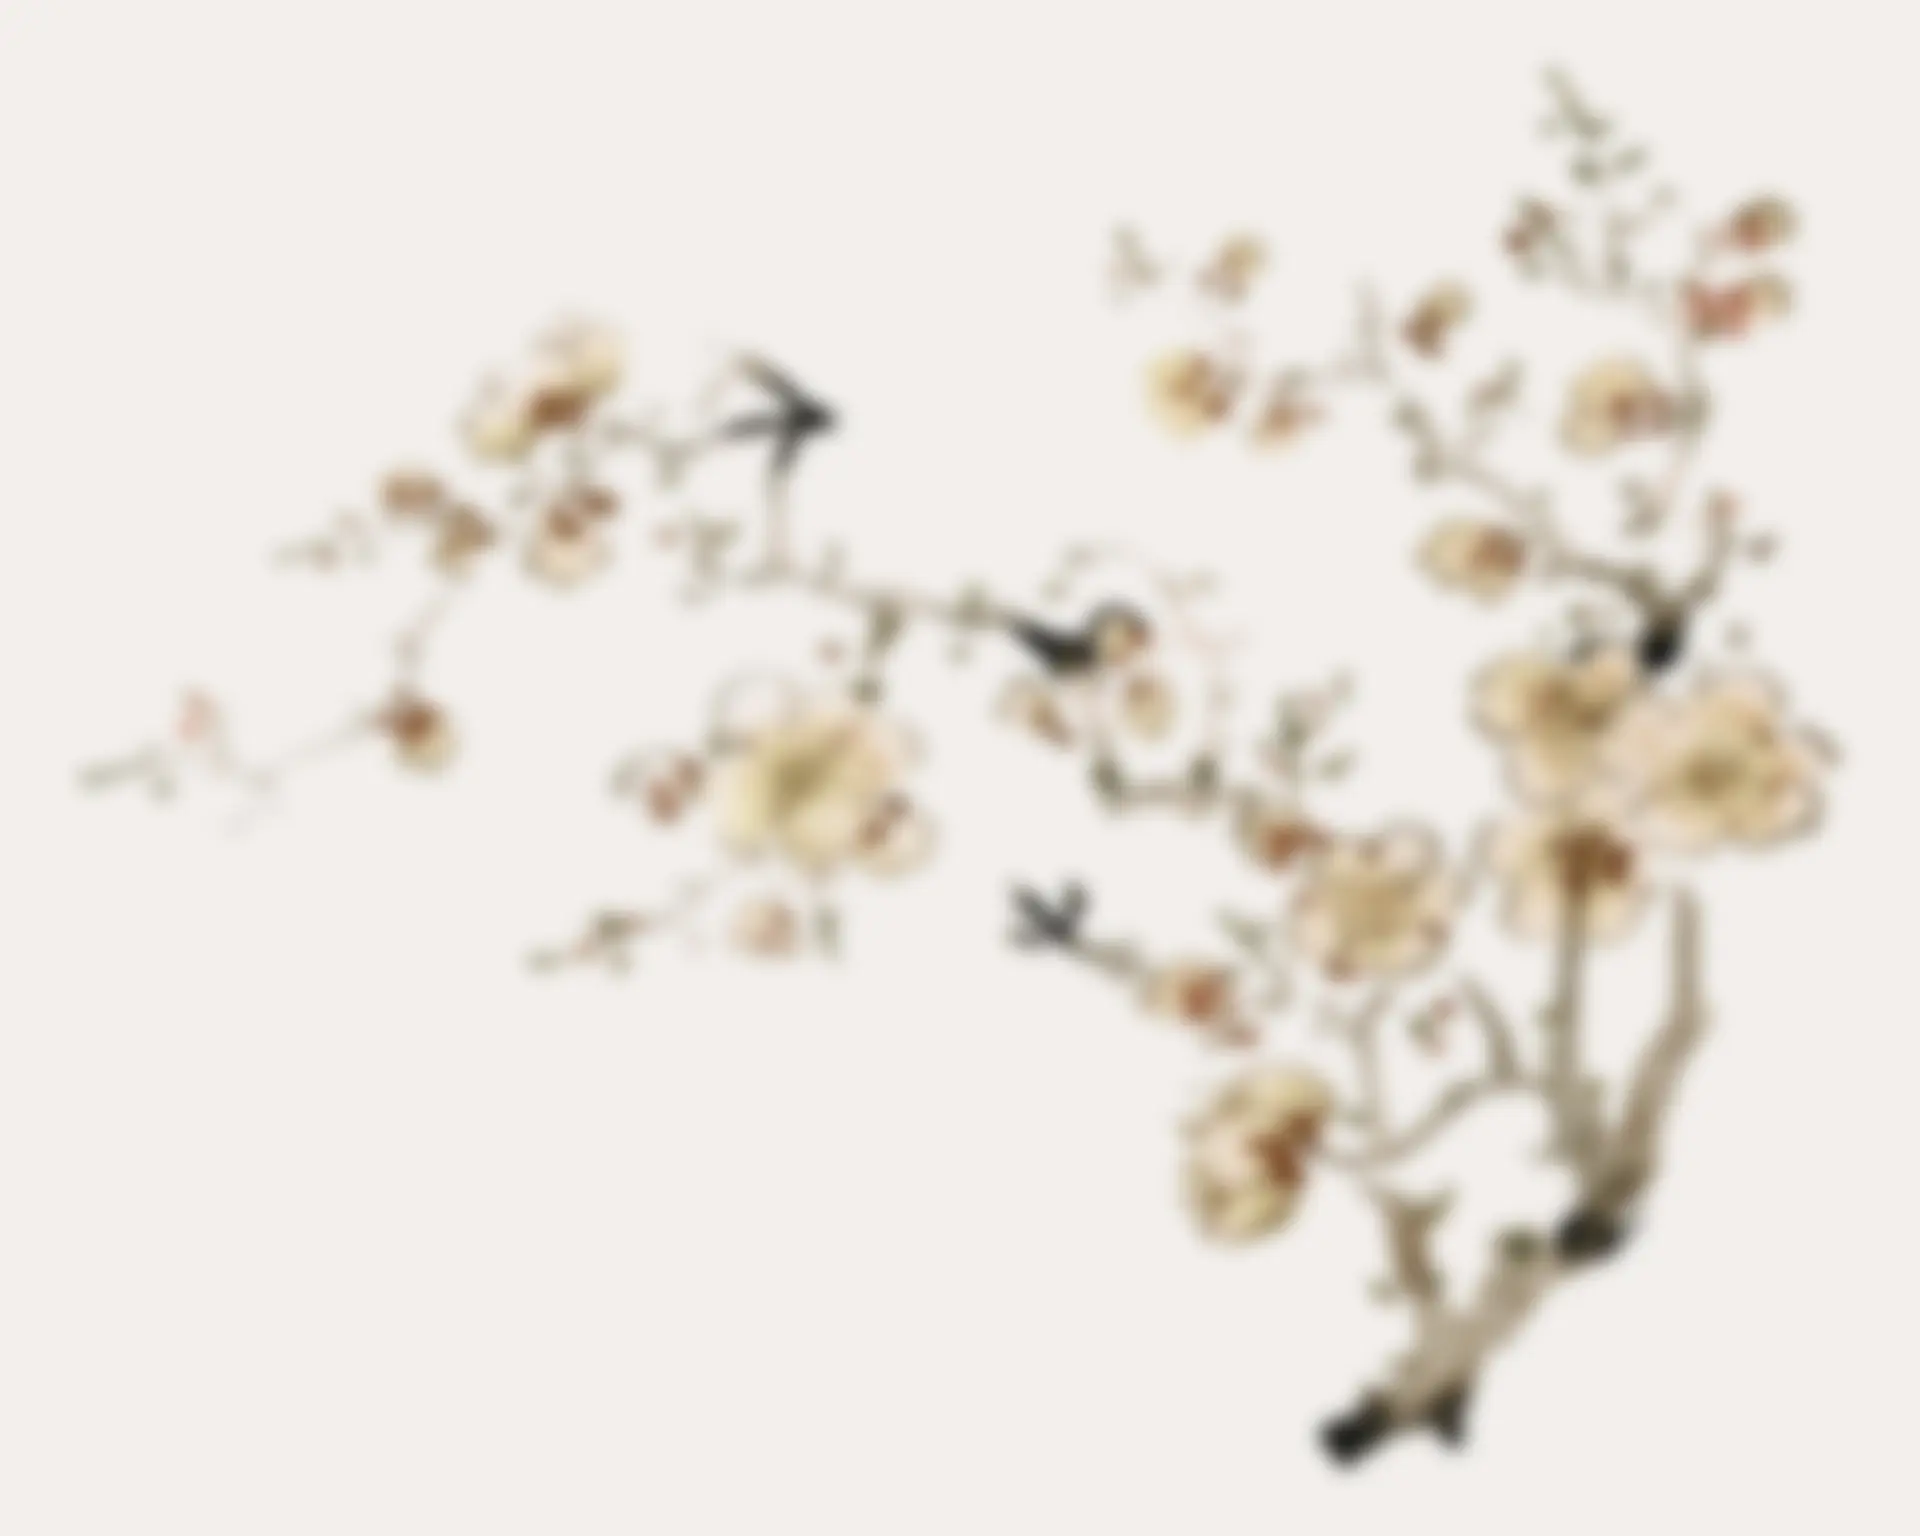
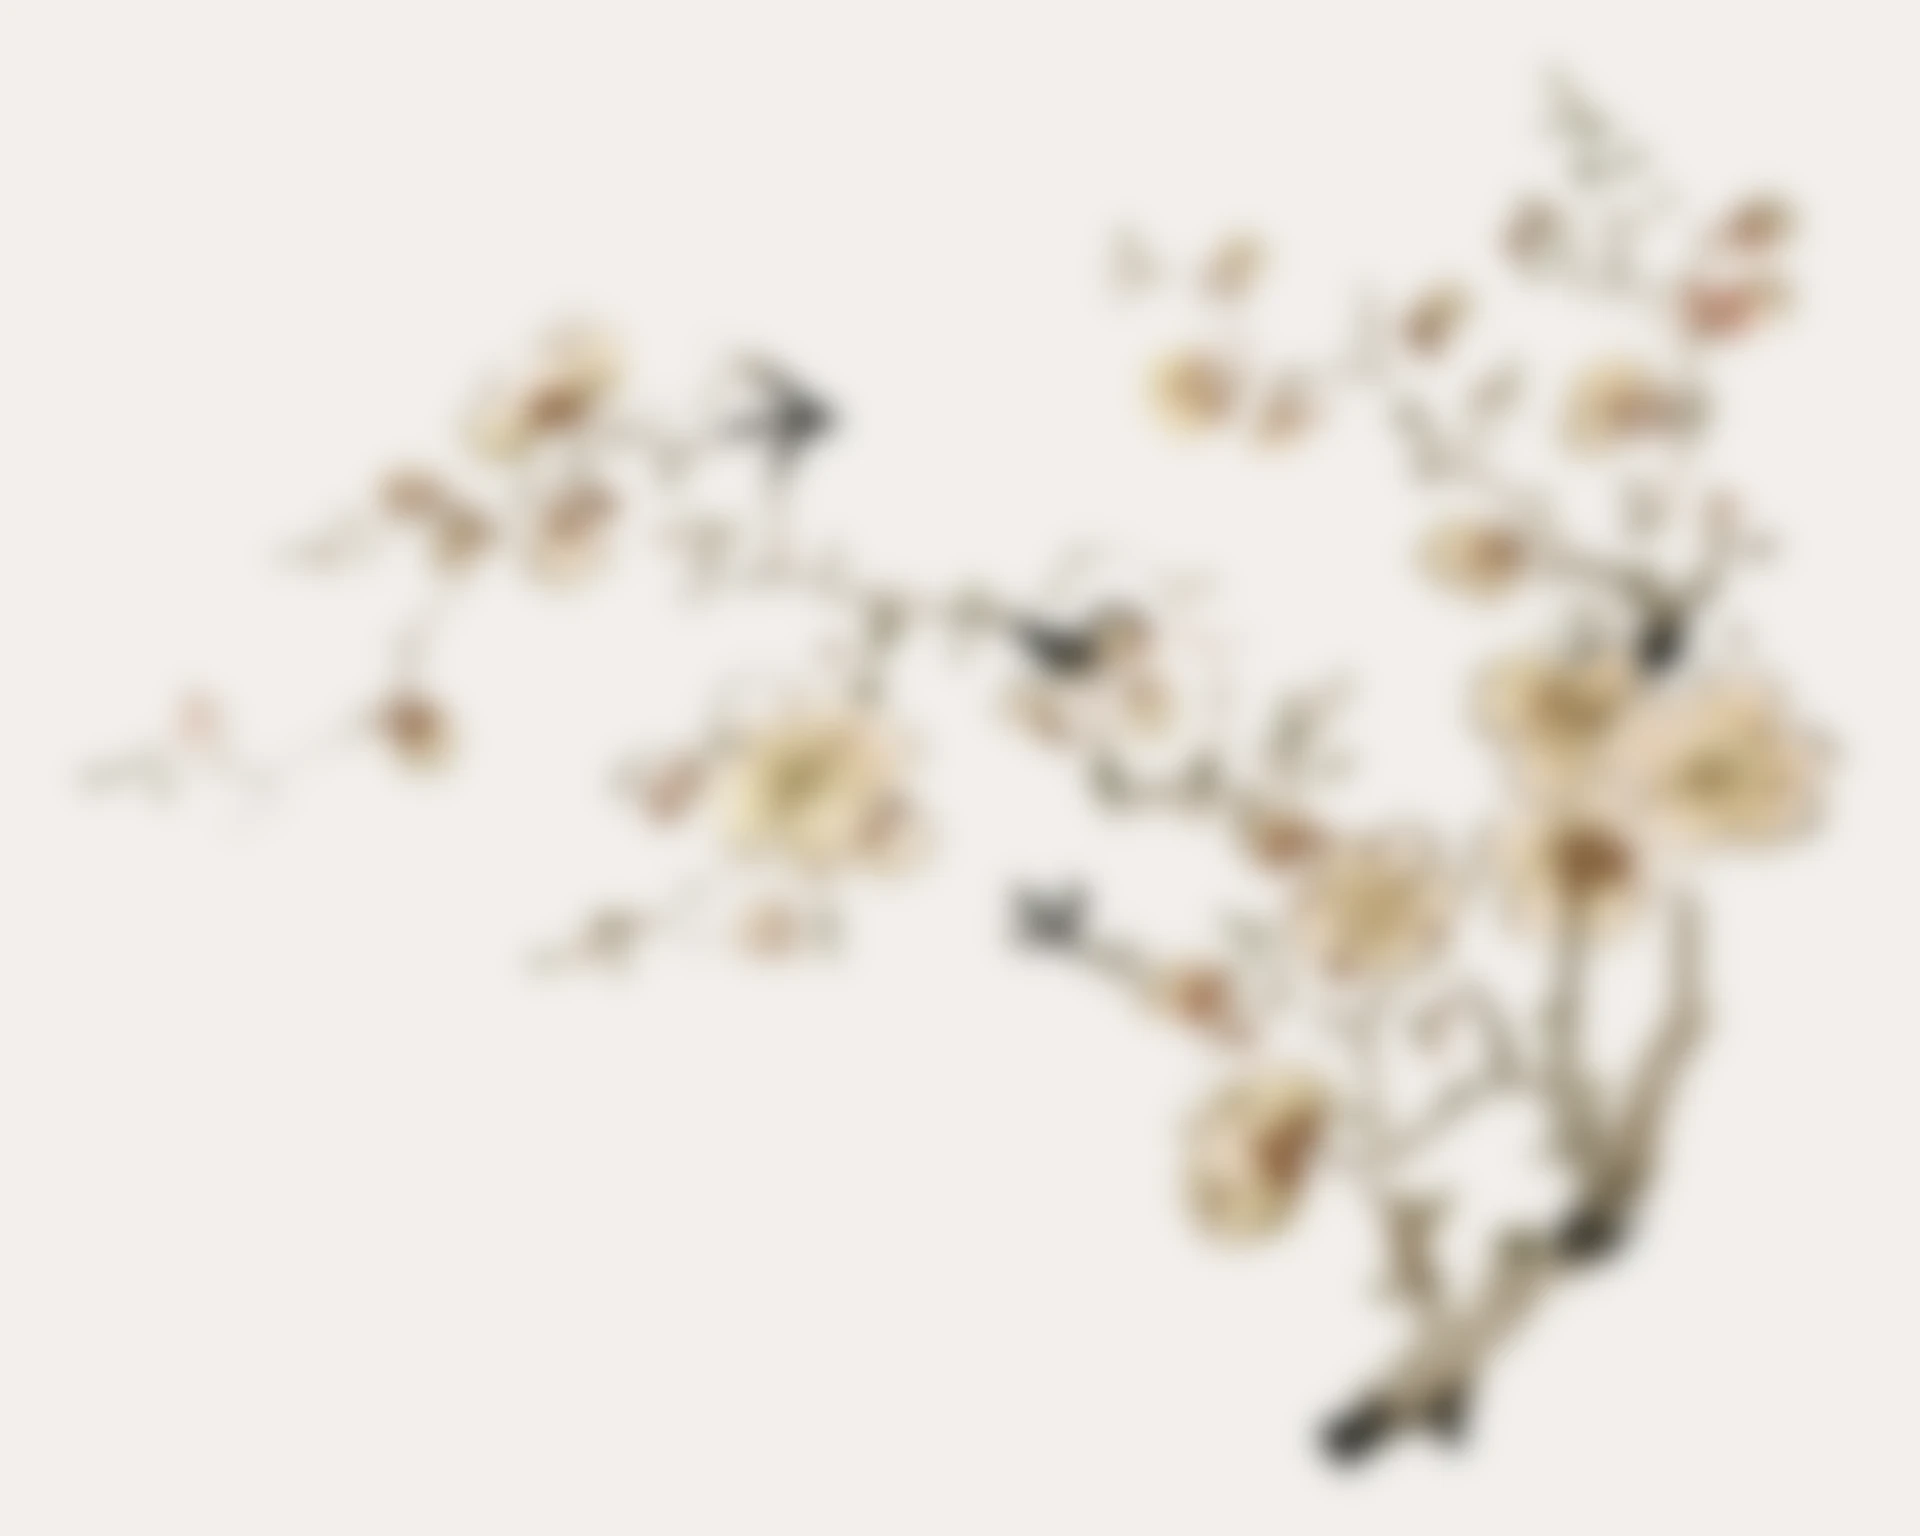
style: increase the light background blur
Raise the baked light-wallpaper blur from 10px to 16px so the
light mode backdrop is softer.

diff --git a/src/app.css b/src/app.css
@@ -36,7 +36,7 @@
   --color-text-dim: #5f5f5f;
   --color-divider: #d8cdbc;
   --color-institution: #725200;
-  /* Blur is baked in (10px light, 26px dark); sharp originals are in wallpapers/. */
+  /* Blur is baked in (16px light, 26px dark); sharp originals are in wallpapers/. */
   --wallpaper: url('/wallpaper-light.webp');
   --wallpaper-scrim: rgb(243 239 236 / 0.66);
 }
